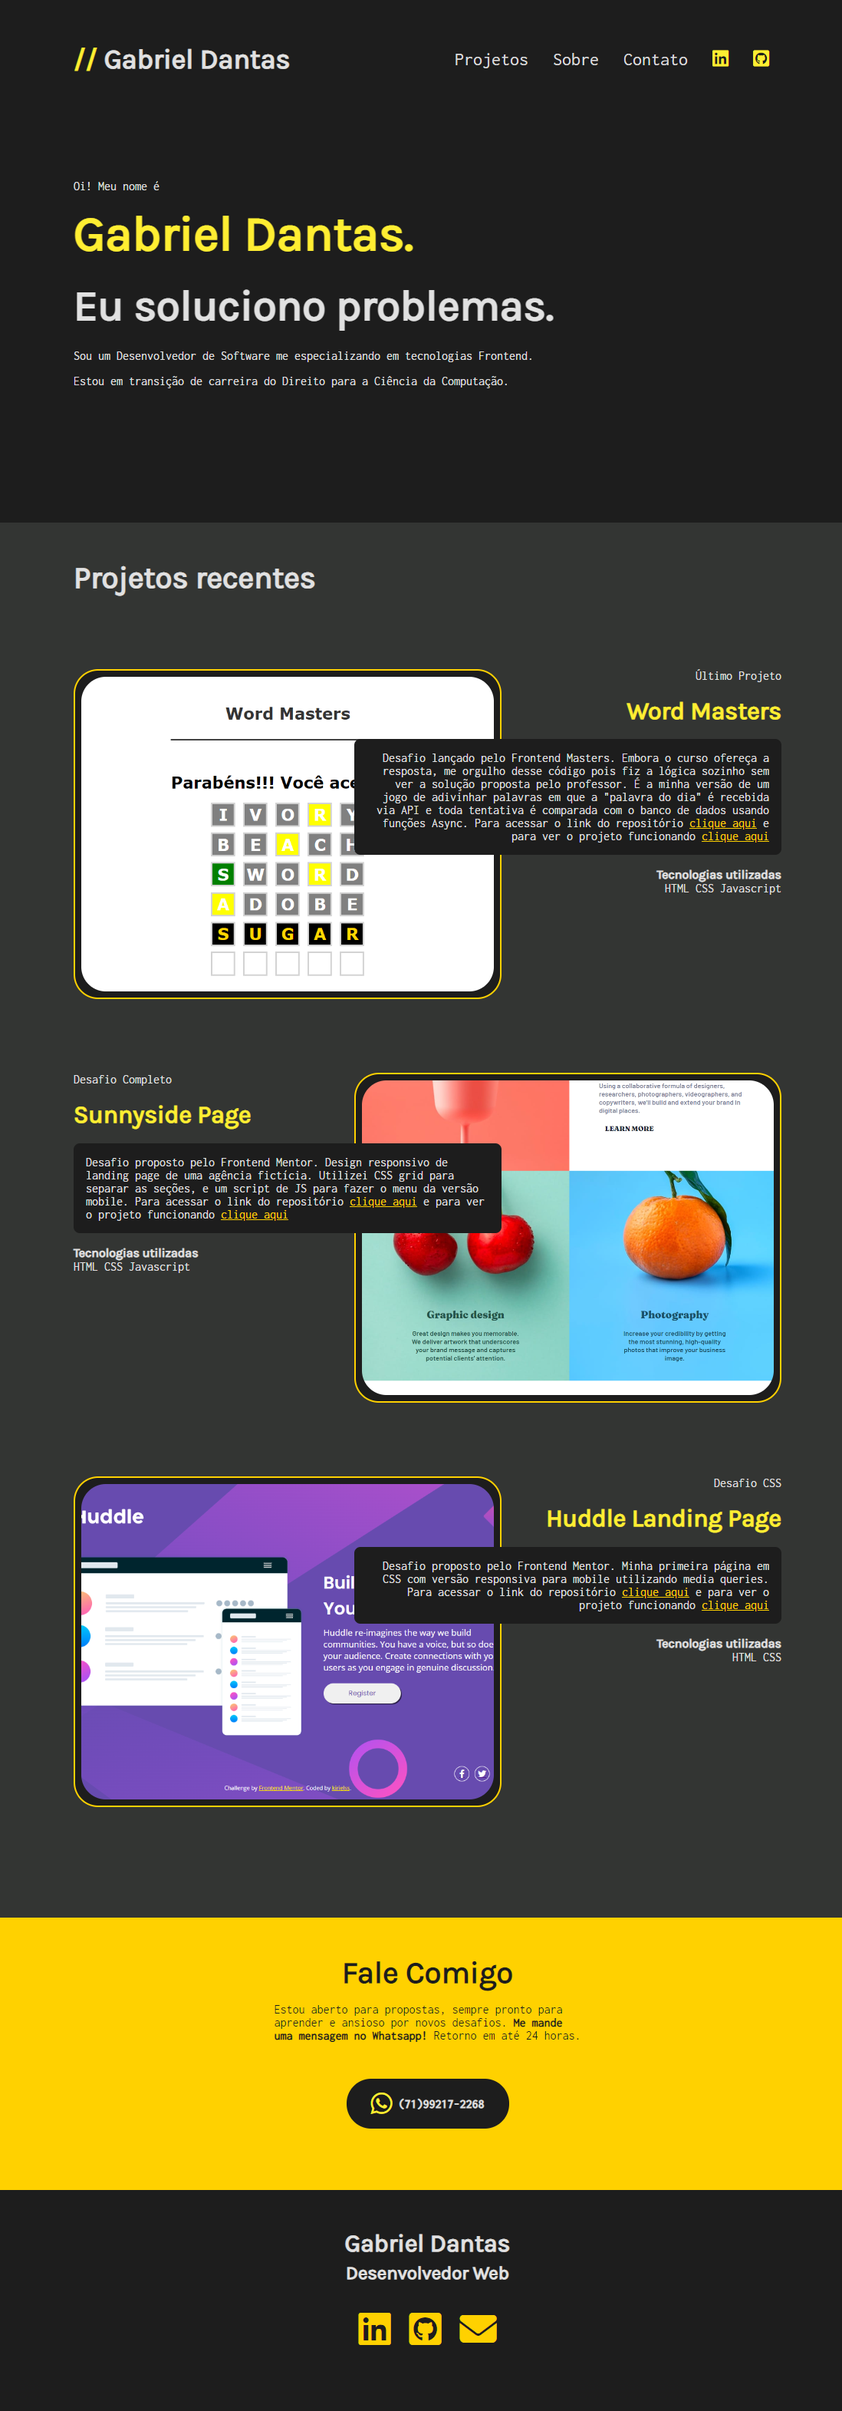
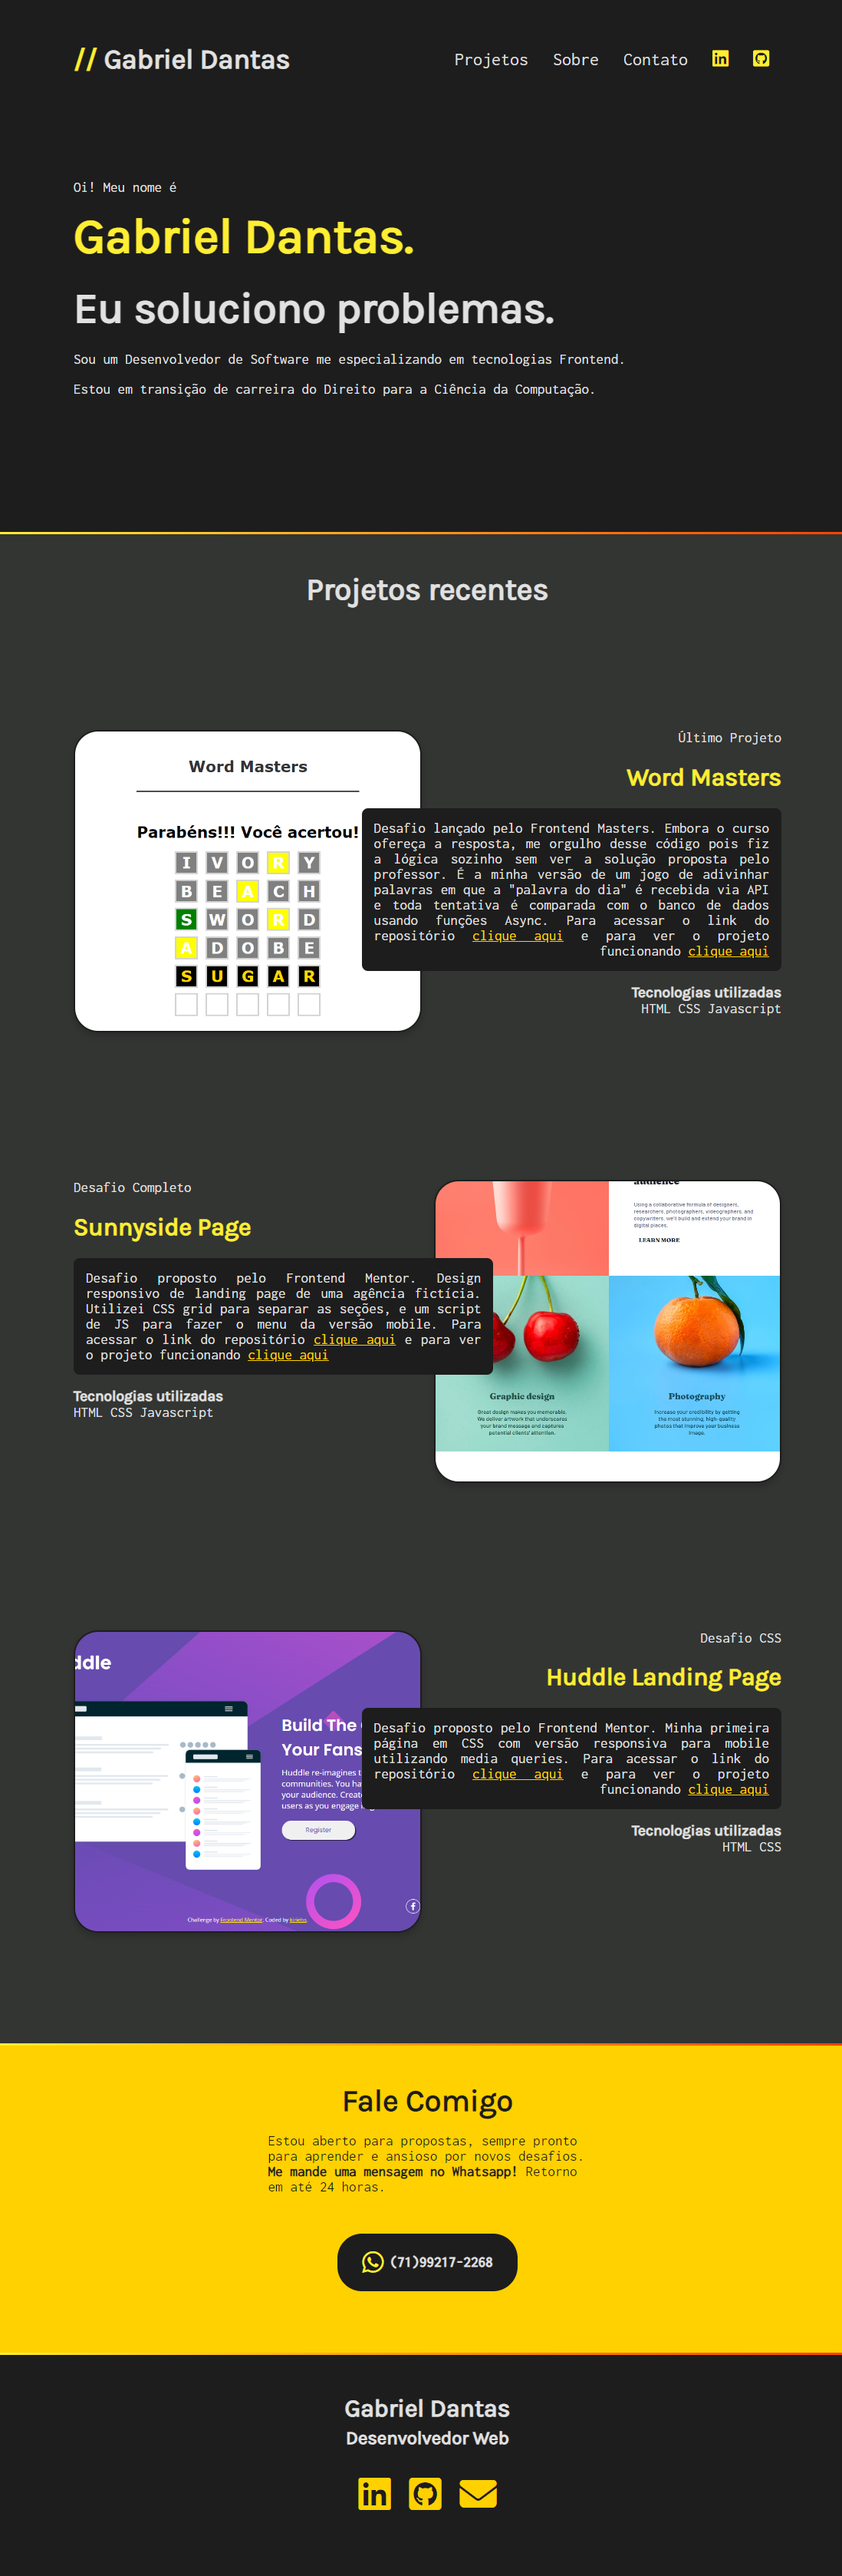
v1.1 - overlap fixed + about page

diff --git a/about.html b/about.html
@@ -1,0 +1,72 @@
+<!DOCTYPE html>
+<html lang="pt-br">
+<head>
+    <meta charset="UTF-8">
+    <meta http-equiv="X-UA-Compatible" content="IE=edge">
+    <meta name="viewport" content="width=device-width, initial-scale=1.0">
+    <link rel="stylesheet" href="style.css">
+    <link rel="stylesheet" href="https://cdnjs.cloudflare.com/ajax/libs/font-awesome/6.2.0/css/all.min.css">
+    <title>Gabriel Dantas</title>
+</head>
+<body>
+    <header class="header">
+        <nav class="nav">
+            <h1 class="logo font">
+                <a href="https://kirielss.netlify.app/index.html">
+                    <span>//</span> Gabriel Dantas
+                </a>
+            </h1>
+            <div class="nav-bar">
+                <a href="#projects">Projetos</a>
+                <a href="#about">Sobre</a>
+                <a href="#contact">Contato</a>
+                <a class="icon" href="https://www.linkedin.com/in/gabeldantas/" target="_blank"><i class="fa-brands fa-linkedin" style="color: #FFEE32"></i></a>
+                <a class="icon" href="https://github.com/kirielss" target="_blank"><i class="fa-brands fa-square-github" style="color:#FFEE32"></i></a>
+            </div>
+        </nav>
+    </header>
+    <div class="gradient"></div>
+    <main>
+        <section id="projects">
+            <h2 class="projects-title font">Quem sou eu?</h2>
+                <article class="projects-box">
+                    <div class="details left details-about">
+                        <p class="details-subtitle">
+                            Sobre mim
+                        </p>
+                        <h3 class="details-title font">
+                            <a class="details-anchor" href="https://github.com/kirielss" target="_blank">
+                                Um desenvolvedor multidisciplinar
+                            </a>
+                        </h3>
+                        <div class="details-textbox">
+                            <p>
+                                Me chamo Gabriel, tenho 28 anos, sou natural de Teófilo Otoni - MG.
+                                Curioso por natureza, sou apaixonado por computadores desde os 6 anos de idade. Aos 17 tive meu primeiro contato com programação ao ingressar em Ciência da Computação pela UFBA. Tenho experiência profissional em diferentes áreas do saber, em especial os ramos do Direito Civil e da Tecnologia. Tenho proficiência avançada em inglês e sou comunicativo. Gosto de me desafiar e resolver problemas de forma inovadora
+                            </p>
+                        </div>
+                        <div class="details-tech">
+                            <p class="font">Principais tecnologias</p>
+                            <p>HTML CSS Javascript React</p>
+                        </div>
+                    </div>
+                    <div class="image foto">
+                    </div>
+                </article>
+    </main>
+    <div class="gradient"></div>
+    <footer class="footer">
+            <h3 class="footer-title font">
+                Gabriel Dantas
+            </h3>
+            <h4 class="footer-title font">
+                Desenvolvedor Web
+            </h4>
+            <div class="socials">
+                <a href="https://www.linkedin.com/in/gabeldantas/" target="_blank"><i class="fa-brands fa-linkedin" style="color: #FFD100"></i></a>
+                <a href="https://github.com/kirielss" target="_blank"><i class="fa-brands fa-square-github" style="color:#FFD100"></i></a>
+                <a href="mailto:gabrieldllopes@gmail.com"><i class="fa-solid fa-envelope" style="color:#FFD100"></i></a>
+            </div>
+    </footer>
+</body>
+</html>

diff --git a/index.html b/index.html
@@ -18,10 +18,10 @@
             </h1>
             <div class="nav-bar">
                 <a href="#projects">Projetos</a>
-                <a href="#about">Sobre</a>
+                <a href="https://kirielss.netlify.app/about.html">Sobre</a>
                 <a href="#contact">Contato</a>
-                <a class="icon" href="https://www.linkedin.com/in/gabeldantas/"><i class="fa-brands fa-linkedin" style="color: #FFEE32"></i></a>
-                <a class="icon" href="https://github.com/kirielss"><i class="fa-brands fa-square-github" style="color:#FFEE32"></i></a>
+                <a class="icon" href="https://www.linkedin.com/in/gabeldantas/" target="_blank"><i class="fa-brands fa-linkedin" style="color: #FFEE32"></i></a>
+                <a class="icon" href="https://github.com/kirielss" target="_blank"><i class="fa-brands fa-square-github" style="color:#FFEE32"></i></a>
             </div>
         </nav>
         <div class="intro">
@@ -31,6 +31,7 @@
             <p class="subtitle">Estou em transição de carreira do Direito para a Ciência da Computação. </p>
         </div>
     </header>
+    <div class="gradient"></div>
     <main>
         <section id="projects">
             <h2 class="projects-title font">Projetos recentes</h2>
@@ -54,8 +55,8 @@
                             <p>HTML CSS Javascript</p>
                         </div>
                     </div>
-                    <div class="image-border">
-                        <div class="image img-1"></div>
+                    <div class="image img-1">
+
                     </div>
                 </article>
                 <article class="projects-box">
@@ -78,8 +79,8 @@
                             <p>HTML CSS Javascript</p>
                         </div>
                     </div>
-                    <div class="image-border">
-                        <div class="image img-2"></div>
+                    <div class="image img-2">
+
                     </div>
                 </article>
                 <article class="projects-box">
@@ -102,11 +103,12 @@
                             <p>HTML CSS</p>
                         </div>
                     </div>
-                    <div class="image-border">
-                        <div class="image img-3"></div>
+                    <div class="image img-3">
+
                     </div>
                 </article>
         </section>
+        <div class="gradient"></div>
         <section id="contact">
             <div class="container">
                 <h2 class="contact-title font">Fale Comigo</h2>
@@ -115,6 +117,7 @@
             </div>
         </section>
     </main>
+    <div class="gradient"></div>
     <footer class="footer">
             <h3 class="footer-title font">
                 Gabriel Dantas

diff --git a/style.css b/style.css
@@ -9,24 +9,22 @@
     --redorange: #FF3F00;
 
     --font-size: 1.3rem;
-    --padding: 4.4rem 6rem;
 }
 
 * {
     box-sizing: border-box;
-
 }
 
 body {
     margin: 0;
     padding: 0;
     height: 100vh;
-    font-family: 'Inconsolata';
+    font-family: 'Inconsolata', sans-serif;
     color: var(--gainsboro);
 }
 
 .font {
-    font-family: 'Karla';
+    font-family: 'Karla', Verdana Tahoma, sans-serif;
     font-weight: bold;
 }
 
@@ -110,14 +108,6 @@ body {
     margin: 0;
 }
 
-.image-border {
-    border: 2px solid var(--cybyellow);
-    padding: .5rem;
-    border-radius: 2rem;
-    background-color: var(--erblack);
-    max-width: 740px;
-}
-
 .image {
     background-size: cover;
     background-repeat: no-repeat;
@@ -125,6 +115,8 @@ body {
     width: 100%;
     height: calc(60vh + 1em);
     border-radius: 2rem;
+    box-shadow: 0 5px 10px rgb(0 0 0 / 0.2);
+    border: 2px solid var(--erblack);
 }
 
 .img-1 {
@@ -136,6 +128,10 @@ body {
 }
 .img-3 {
     background-image: url("img/huddle.png");
+}
+
+.foto {
+    background-image: url("img/gabriel.png");
 }
 
 .details {
@@ -176,7 +172,7 @@ body {
     display: flex;
     flex-direction: column;
     align-items: center;
-    width: 25rem
+    width: 26rem
 }
 
 .zap {
@@ -227,7 +223,16 @@ body {
     margin: 2rem;
 }
 
+.gradient {
+    background: linear-gradient(90deg, rgba(255,238,50,1) 0%, rgba(255,63,0,1) 100%);
+    height: 3px;
+}
+
 @media screen and (min-width:800px) {
+    body {
+        font-size: 120%;
+    }
+
     .nav {
         flex-direction: row;
         justify-content: space-between;
@@ -256,24 +261,44 @@ body {
 
     #projects {
         padding: 3rem 6rem;
+        display: flex;
+        flex-flow: column wrap;
+        align-items: center;
     }
 
     .projects-box {
         margin: 6rem 0;
+        max-width: 1600px;
+        display: grid;
+        grid-template-columns: repeat(10, 1fr);
+        gap: 1rem;
     }
 
-    .image-border {
-        width: 50vw;
-        height: 40%;
+    .image {
+        grid-column:1/6;
+        grid-row:1/2;
+    }
+
+    .details {
+        grid-column:5/11;
+        grid-row:1/2;
+        order: 2;
+        margin: 0;
+        text-align: justify;
+    }
+
+    .foto {
+        grid-column:1/4;
+        grid-row:1/2;
+    }
+
+    .details-about {
+        grid-column:4/11;
+        grid-row:1/2;
     }
 
     .details.left {
         direction:rtl;
-        width: 50vw;
-        margin: 0;
-        position: absolute;
-        top: 0;
-        right: 0
     }
 
     .projects-box:nth-of-type(2){
@@ -282,11 +307,6 @@ body {
 
     .details.right {
         direction: ltr;
-        width: 50vw;
-        margin: 0;
-        position: absolute;
-        top: 0;
-        left: 0;
     }
 
     a:hover {
